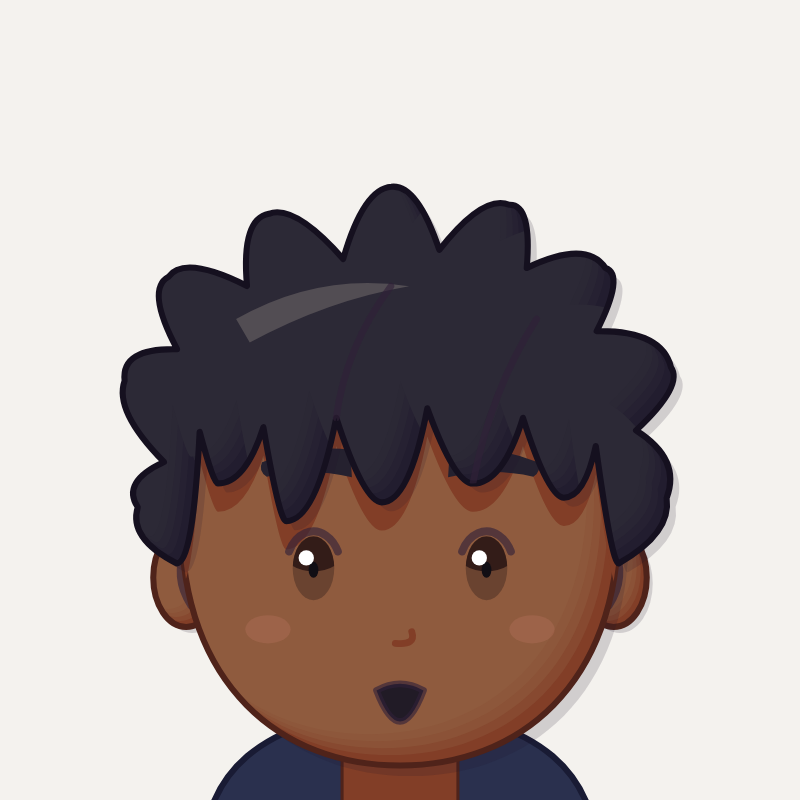
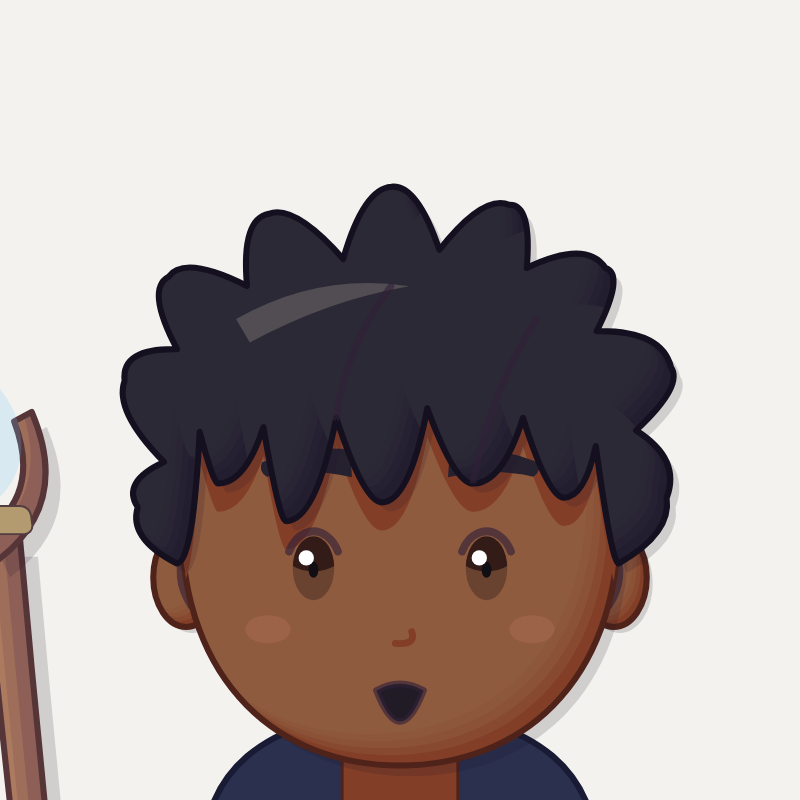
VALDOR: Davi mago (humano), Téo guardião (homem-fera) e escolha de raça/classe no roteiro
Claude-Session: https://claude.ai/code/session_01VxVnS8CFWSgiPr5zynEPoR

Changed region(s): [[0.0, 0.5, 0.0938, 1.0]]

diff --git a/animacao-do-chede/personagens/nova/equipamento.js b/animacao-do-chede/personagens/nova/equipamento.js
@@ -54,6 +54,31 @@
       });
     }
 
+    if (eq.manto) {
+      // manto de mago até acima do joelho, com abertura na frente e barra com runas
+      const cor = T(eq.manto.cor), barra = T(eq.manto.barra || 'mostarda');
+      depois('tronco', (pc) => {
+        const y0 = hemY - 0.32 * f, y1 = 1.25 * f;
+        if (perfil) {
+          const forma = P((p) => { p.moveTo(-d - 0.02, y0); p.lineTo(d + 0.06, y0); p.lineTo(d + 0.2, y1); p.quadraticCurveTo(0, y1 + 0.05, -d - 0.12, y1); p.closePath(); });
+          pc.peca(forma, cor, { sombra: 0.12 });
+          pc.sombraDentro(forma, P((p) => p.rect(-1, y1 - 0.09, 2, 0.09)), barra.base);
+          return;
+        }
+        const a = (hw + 0.02) * k, b = (hw + 0.16) * k;
+        const forma = P((p) => { p.moveTo(-a, y0); p.lineTo(a, y0); p.lineTo(b, y1); p.quadraticCurveTo(0, y1 + 0.06, -b, y1); p.closePath(); });
+        pc.peca(forma, cor, { sombra: 0.12 });
+        pc.sombraDentro(forma, P((p) => p.rect(-1, y1 - 0.09, 2, 0.09)), barra.base);
+        if (!costas) {
+          // abertura na frente
+          pc.preencher(P((p) => { p.moveTo(cx - 0.03, y1 + 0.02); p.lineTo(cx, 0.7 * f); p.lineTo(cx + 0.03, y1 + 0.02); p.closePath(); }), cor.sombra);
+          pc.linha(P((p) => { p.moveTo(cx, 0.55 * f); p.lineTo(cx, y1); }));
+          // runas na barra
+          for (let i = -2; i <= 2; i++) if (i) pc.preencher(P((p) => { const x = cx + i * 0.16 * k, y = y1 - 0.045; p.moveTo(x, y - 0.03); p.lineTo(x + 0.025, y); p.lineTo(x, y + 0.03); p.lineTo(x - 0.025, y); p.closePath(); }), cor.sombra);
+        }
+      });
+    }
+
     if (eq.cinto) {
       const cor = T(eq.cinto.cor), fiv = T(eq.cinto.fivela || 'mostarda');
       depois('tronco', (pc) => {
@@ -92,6 +117,31 @@
         pc.linha(P((p) => { p.moveTo(-0.13, Lante - 0.2); p.lineTo(0.13, Lante - 0.2); }));
       };
       depois('antebraco_d', brac); depois('antebraco_e', brac);
+    }
+
+    if (eq.cajado) {
+      // cajado de iniciante: galho de madeira com um cristal pequeno preso por cordão
+      const m = eq.cajado.mao || 'd', cr = eq.cajado.cristal || '#6FC8FF';
+      const inc = eq.cajado.inclina ?? { frente: -0.13, tq: -0.16, perfil: -0.3, costas: -0.1 }[vista];
+      const Q = (fn) => { const a = P(fn), out = new Path2D(); out.addPath(a, new DOMMatrix([1, 0, inc, 1, 0, 0])); return out; };
+      depois('mao_' + m, (pc) => {
+        pc.peca(Q((p) => { p.moveTo(-0.04, -2.45); p.quadraticCurveTo(0.03, -0.8, -0.02, 0.8); p.lineTo(0.05, 0.8); p.quadraticCurveTo(0.09, -0.8, 0.04, -2.45); p.closePath(); }), T('madeira'), { sombra: 0.12 });
+        pc.peca(Q((p) => { p.moveTo(0.02, -2.40); p.quadraticCurveTo(-0.16, -2.52, -0.1, -2.72); p.lineTo(-0.06, -2.70); p.quadraticCurveTo(-0.1, -2.54, 0.04, -2.46); p.closePath(); }), T('madeira'), { sombra: 0.1 });
+        pc.peca(Q((p) => { p.moveTo(0.1, -2.85); p.lineTo(0.16, -2.66); p.lineTo(0.1, -2.50); p.lineTo(0.04, -2.66); p.closePath(); }), tomFixo(cr, Estilo.multiply(cr, '#7A90C8'), '#E8F7FF'), { sombra: 0.1 });
+        pc.preencher(Q((p) => p.arc(0.1, -2.67, 0.17, 0, Math.PI * 2)), cr.length === 7 ? cr + '33' : 'rgba(111,200,255,0.2)');
+        pc.peca(Q((p) => p.roundRect(-0.07, -2.52, 0.16, 0.06, 0.02)), T('caqui'), { sombra: 0, espessura: pc.interno * 0.7 });
+      });
+    }
+
+    if (eq.adagaCinto) {
+      // adaga embainhada na cintura
+      depois('tronco', (pc) => {
+        if (costas || perfil) return;
+        const x = cx - (hw - 0.05) * k, y = hemY - 0.2 * f;
+        pc.peca(P((p) => { p.moveTo(x - 0.05, y); p.lineTo(x + 0.05, y); p.lineTo(x + 0.13, y + 0.42); p.lineTo(x + 0.06, y + 0.46); p.closePath(); }), T('couroEscuro'), { sombra: 0.1 });
+        pc.peca(P((p) => p.roundRect(x - 0.1, y - 0.04, 0.2, 0.05, 0.02)), T('pedra'), { sombra: 0 });
+        pc.peca(P((p) => p.roundRect(x - 0.035, y - 0.2, 0.07, 0.17, 0.03)), T('caqui'), { sombra: 0.08 });
+      });
     }
 
     if (eq.arma) {

diff --git a/animacao-do-chede/personagens/nova/davi/davi-jogo.js b/animacao-do-chede/personagens/nova/davi/davi-jogo.js
@@ -1,5 +1,5 @@
-// DAVI dentro do jogo VALDOR — nível 1, roupa de iniciante. Mesmo rosto e corpo do Davi (davi.js).
-// Carregar: personagem-base.js, nova/cores.js, nova/equipamento.js, davi/davi.js.
+// DAVI dentro do jogo VALDOR — raça: humano · classe: MAGO (que também luta) · nível 1, equipamento de iniciante.
+// Mesmo rosto e corpo do Davi (davi.js). Carregar: personagem-base.js, nova/cores.js, nova/equipamento.js, davi/davi.js.
 (function () {
   window.DAVI_JOGO_OPCOES = {
     top: { tipo: 'cardiga', cor: 'azulArdosia', corInterna: 'capuzDavi' },
@@ -7,8 +7,10 @@
     calcado: { tipo: 'cano-alto', cor: 'couroEscuro', acento: 'couroEscuro' },
   };
   window.DAVI_JOGO_EQUIP = {
-    capuz: 'capuzDavi', cinto: { cor: 'couroEscuro', fivela: 'pedra', bolsa: 'couro' },
-    botas: { cor: 'couro', cano: 0.45 }, bracadeira: 'couro', arma: { tipo: 'adaga', mao: 'd' },
+    capuz: 'capuzDavi', manto: { cor: 'azulArdosia', barra: 'mostarda' },
+    cinto: { cor: 'couroEscuro', fivela: 'pedra', bolsa: 'couro' },
+    botas: { cor: 'couro', cano: 0.4 }, bracadeira: 'couro',
+    cajado: { mao: 'd', cristal: '#6FC8FF' }, adagaCinto: true,
   };
   window.criarDaviJogo = (opcoes = {}, vista = 'frente') => window.equipar(window.criarDavi({ ...window.DAVI_JOGO_OPCOES, ...opcoes }, vista), window.DAVI_JOGO_EQUIP);
 })();

diff --git a/animacao-do-chede/personagens/nova/teo/teo-jogo.js b/animacao-do-chede/personagens/nova/teo/teo-jogo.js
@@ -1,4 +1,4 @@
-// TÉO dentro do jogo VALDOR — nível 1, roupa de iniciante. Mesmo rosto e corpo do Téo (teo.js).
+// TÉO dentro do jogo VALDOR — raça: HOMEM-FERA (aparência humana de dia; transformação só à noite, episódio futuro) · classe: GUARDIÃO · nível 1. Mesmo rosto e corpo do Téo (teo.js).
 // Carregar: personagem-base.js, nova/cores.js, nova/equipamento.js, teo/teo.js.
 (function () {
   window.TEO_JOGO_OPCOES = {

diff --git a/animacao-do-chede/roteiros/nova/ep01.md b/animacao-do-chede/roteiros/nova/ep01.md
@@ -2,13 +2,15 @@
 
 **Status: proposta, aguardando aprovação.**
 Formato do vídeo de referência: história contada por um narrador, com ciência explicada no meio (raio-X), corte a cada 2–3 s,
-legenda no meio da tela e palavra-chave em laranja. Duração prevista: **~70 s**.
+legenda no meio da tela e palavra-chave em laranja. Duração prevista: **~72 s** (máximo 75 s).
 
-**Personagens:** Davi (protagonista) e Téo (melhor amigo). Fichas em `personagens/nova/davi/` e `personagens/nova/teo/`.
+**Personagens:** Davi (protagonista; no jogo: humano, mago que também luta) e Téo (melhor amigo; no jogo: homem-fera, guardião).
+**Segredo do Téo:** homem-fera parece humano de dia; a transformação só aparece à noite (guardar para um episódio futuro).
+ Fichas em `personagens/nova/davi/` e `personagens/nova/teo/`.
 **O jogo:** VALDOR, um mundo de fantasia. Você entra deitado numa cadeira com capacete.
 **O item:** a **Adaga Eclipse**, mágica, nível **ÉPICO** (roxa), que vale R$ 15.000 na vida real. É o sonho deles, mas como são
 iniciantes, primeiro vão explorar e ficar mais fortes.
-**Visual no jogo:** fichas em `personagens/nova/davi/jogo/` e `personagens/nova/teo/jogo/` (nível 1, roupa de iniciante).
+**Visual no jogo (roupa conforme a classe):** fichas em `personagens/nova/davi/jogo/` e `personagens/nova/teo/jogo/` (nível 1, roupa de iniciante).
 
 ---
 
@@ -54,32 +56,40 @@ iniciantes, primeiro vão explorar e ficar mais fortes.
 - **Narrador:** "…e o cérebro jura que você está andando."
 - **Imagem:** o cérebro acende e o boneco de raio-X dá um passo.
 
-## Cena 7: Nível 1 (40–46 s)
+## Cena 7: Raça, classe e nível 1 (40–50 s)
 - **Imagem:** tela preta, uma linha de luz abre na horizontal (o visor).
 - **Narrador:** "Bem-vindos a Valdor."
 - **Imagem:** campo aberto com floresta ao longe, castelo nas montanhas e título translúcido **"VALDOR · BEM-VINDOS"**.
-  Os dois aparecem num brilho, já com a roupa de iniciante, e uma plaquinha **"NV 1"** surge sobre a cabeça de cada um.
-- **Narrador:** "Nível 1. Adaga enferrujada…"
-- **Imagem:** Davi olha a própria adaga com cara de decepção (olhos → cabeça → câmera).
+- **Narrador:** "Primeiro, escolha sua raça."
+- **Imagem:** cartas de vidro girando em volta do Davi: **HUMANO · ELFO · ANÃO · HOMEM-FERA**. Ele toca em "HUMANO".
+- **Narrador:** "O Téo escolheu homem-fera… e não contou por quê."
+- **Imagem:** Téo toca em "HOMEM-FERA". Por um instante, os olhos dele brilham amarelos, e ele dá um sorrisinho de lado.
+- **Narrador:** "Depois, a classe."
+- **Imagem:** cartas de classe: **MAGO · ASSASSINO · GUARDIÃO · PALADINO**. Davi escolhe **MAGO** e a roupa vira manto azul,
+  com cajado na mão. Téo escolhe **GUARDIÃO** e aparecem a túnica verde, o peitoral, a espada e o escudo.
+- **Narrador:** "Nível 1. Um cajado de galho…"
+- **Imagem:** a plaquinha **"NV 1"** surge na cabeça dos dois. Davi olha o cristalzinho do cajado com cara de decepção
+  (olhos → cabeça → câmera).
 - **Narrador:** "…e uma espada de madeira."
 - **Imagem:** Téo bate no próprio escudo de tábuas e ri.
 
-## Cena 8: Explorar e ficar forte (46–56 s)
+## Cena 8: Explorar e ficar forte (50–58 s)
 - **Narrador:** "Antes de sonhar alto, eles precisavam ficar fortes."
 - **Imagem:** os dois andando pelo campo, com a câmera girando em volta deles e revelando o mapa enorme ao fundo.
 - **Narrador:** "Primeiro monstro: uma gosma."
-- **Imagem:** uma gosma azul pula na frente deles. Davi ataca e aparece **"3"** pequeno. Téo segura a gosma com o escudo
-  e Davi acerta de novo: **"5"**. A gosma estoura.
+- **Imagem:** uma gosma azul pula na frente deles. Davi solta uma faísca fraquinha do cajado e aparece **"3"** pequeno.
+  Téo segura a gosma com o escudo, e Davi tira a adaga da cintura e acerta: **"5"**. A gosma estoura.
+  (O Davi é mago, mas também luta.)
 - **Narrador:** "Ela deixou cair… dois centavos."
 - **Imagem:** uma gotinha azul vira etiqueta **"R$ 0,02"**. Os dois se olham e caem na risada.
 - **Imagem:** barra de experiência enchendo, luz subindo pelo corpo dos dois: **"NV 2!"**
 
-## Cena 9: Ciência, por que subir de nível vicia (56–62 s)
+## Cena 9: Ciência, por que subir de nível vicia (58–63 s)
 - **Narrador:** "A barra de experiência foi feita pra prender você."
 - **Imagem (raio-X):** cérebro com pontinhos dourados se espalhando a cada pedacinho da barra que enche. Escrito: **"DOPAMINA"**.
 - **Narrador:** "O cérebro gosta mais de progresso pequeno e frequente do que de prêmio grande e raro."
 
-## Cena 10: O sonho e o gancho (62–70 s)
+## Cena 10: O sonho e o gancho (63–72 s)
 - **Imagem:** um jogador de nível alto passa a cavalo. Na cintura dele, uma adaga brilhando **roxo**.
   Aparece a etiqueta: **"ADAGA ECLIPSE · ÉPICA · R$ 15.000"**.
 - **Narrador:** "Uma adaga épica. Quinze mil reais."
@@ -94,6 +104,7 @@ iniciantes, primeiro vão explorar e ficar mais fortes.
 ### Coisas novas que o motor vai precisar
 - Celular na mão com saldo animado (cenas 2 e 3)
 - Itens em feixes de luz + etiquetas de preço (cena 3)
+- Cartas de vidro para escolher raça e classe, com troca de roupa num brilho (cena 7)
 - Infográfico de bolinhas "1 em 1.000" (cena 4)
 - Raio-X: ouvido interno e cérebro com dopamina (cenas 6 e 9)
 - Transição do visor (linha de luz abrindo) (cena 7)
